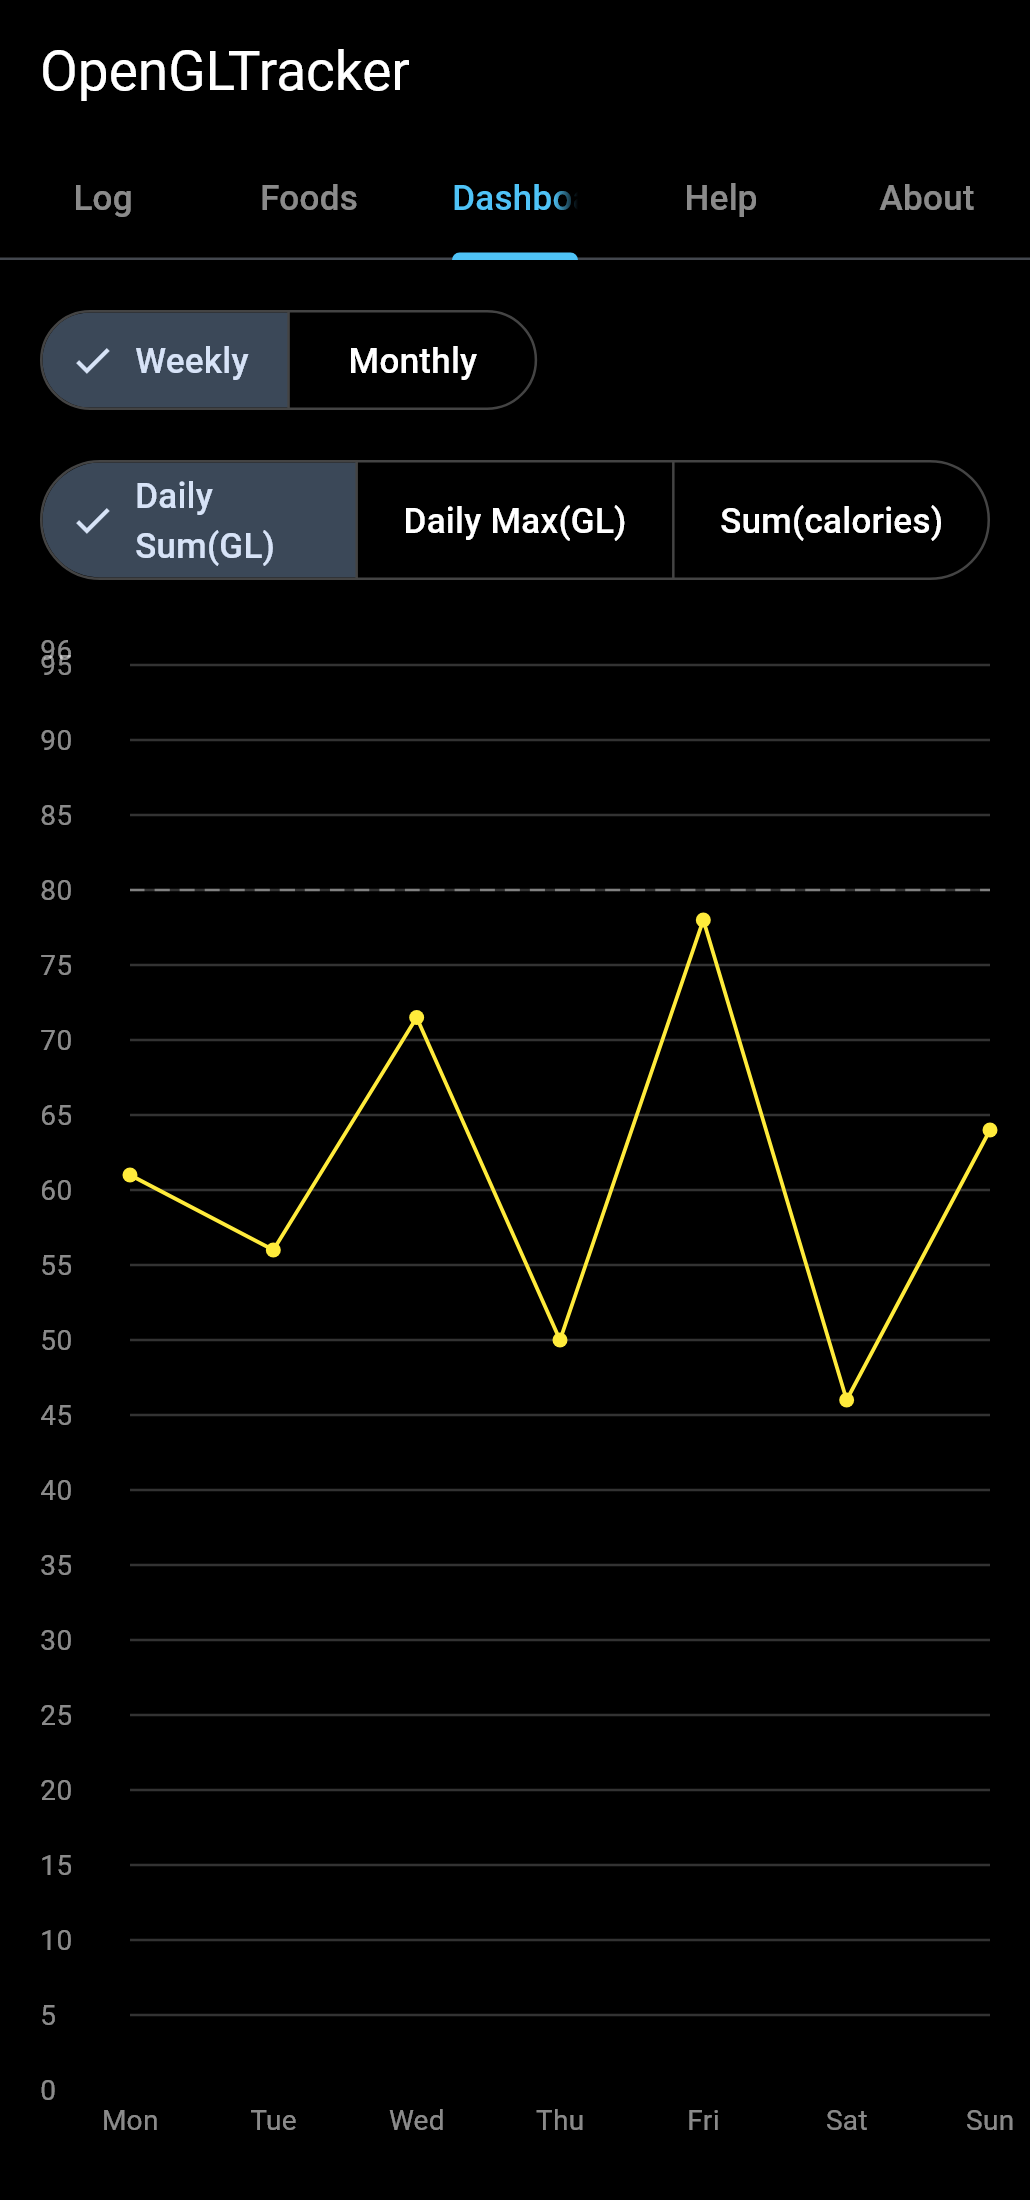
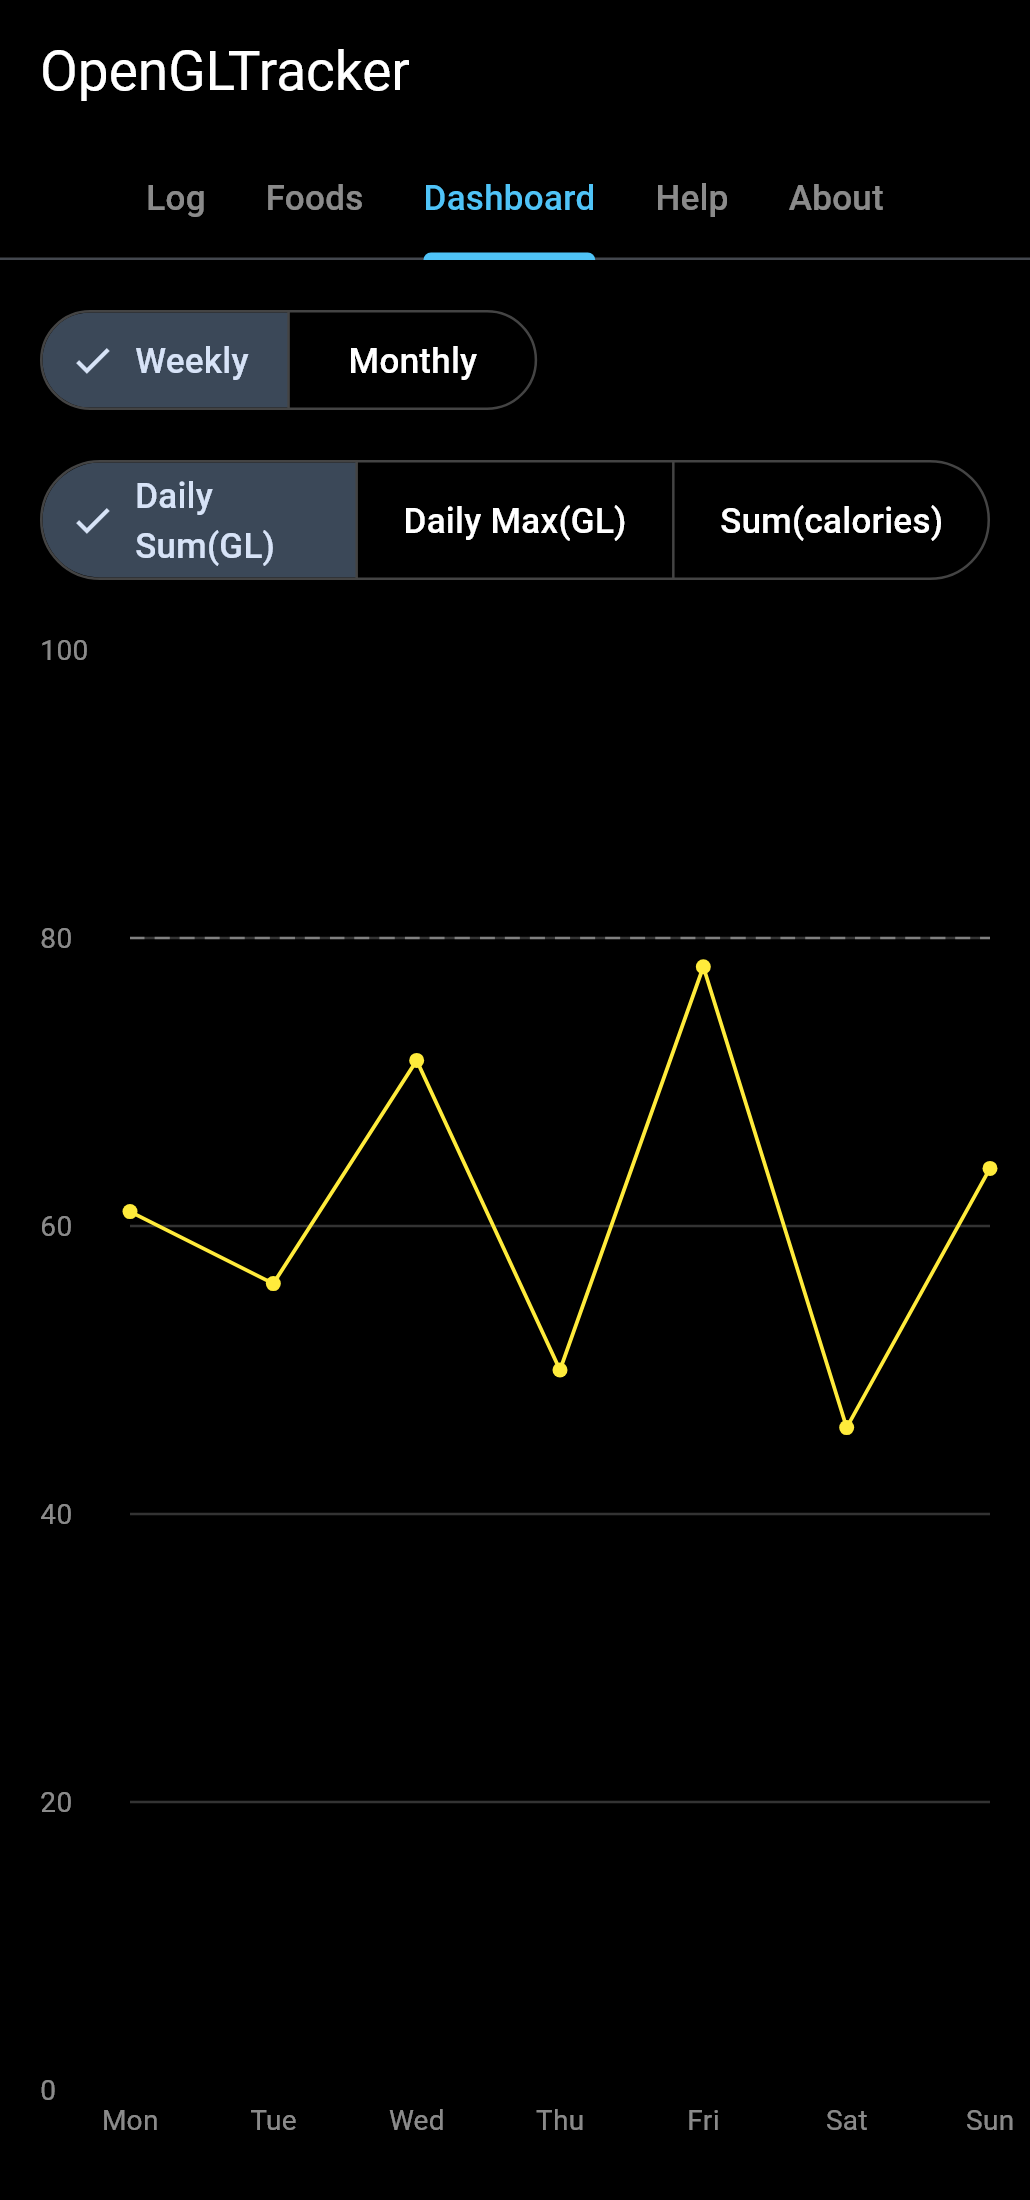
fix: dashboard tab truncation and chart axis label overlap
- Size tabs to their labels on narrow screens so 'Dashboard' fits
- Round the chart's y-axis top up to a nice step and use that step for
  labels and grid, so the last label can't overlap the one below
- Regression tests with real fonts; regenerated README screenshots

diff --git a/app/test/layout_test.dart b/app/test/layout_test.dart
@@ -1,0 +1,82 @@
+import 'dart:convert';
+import 'dart:io';
+
+import 'package:flutter/material.dart';
+import 'package:flutter/rendering.dart';
+import 'package:flutter/services.dart';
+import 'package:flutter_riverpod/flutter_riverpod.dart';
+import 'package:flutter_test/flutter_test.dart';
+import 'package:opengltracker/ui/app.dart';
+import 'package:shared_preferences/shared_preferences.dart';
+
+const _tabs = ['Log', 'Foods', 'Dashboard', 'Help', 'About'];
+
+String _todayKey() {
+  final d = DateTime.now();
+  return 'log_${d.year}-${d.month.toString().padLeft(2, '0')}-'
+      '${d.day.toString().padLeft(2, '0')}';
+}
+
+Future<void> _pumpApp(WidgetTester t, Size size) async {
+  t.view.physicalSize = size;
+  t.view.devicePixelRatio = 1;
+  addTearDown(t.view.reset);
+  await t.pumpWidget(const ProviderScope(child: OpenGlTrackerApp()));
+}
+
+// Real fonts: the default test font draws every glyph as a 14px square, which
+// would make text widths (and therefore truncation) meaningless.
+Future<void> _loadFonts() async {
+  final dir =
+      '${Platform.environment['FLUTTER_ROOT']}/bin/cache/artifacts/material_fonts';
+  Future<ByteData> read(String f) async =>
+      ByteData.sublistView(File('$dir/$f').readAsBytesSync());
+  await (FontLoader('Roboto')
+        ..addFont(read('roboto-regular.ttf'))
+        ..addFont(read('roboto-medium.ttf'))
+        ..addFont(read('roboto-bold.ttf')))
+      .load();
+}
+
+void main() {
+  setUpAll(_loadFonts);
+
+  for (final width in [360.0, 412.0, 1280.0]) {
+    testWidgets('tab labels are not truncated at ${width}px', (t) async {
+      SharedPreferences.setMockInitialValues({});
+      await _pumpApp(t, Size(width, 800));
+      for (final label in _tabs) {
+        final p = t.renderObject<RenderParagraph>(
+            find.descendant(of: find.byType(Tab), matching: find.text(label)));
+        expect(p.size.width, greaterThanOrEqualTo(p.getMaxIntrinsicWidth(double.infinity)),
+            reason: '"$label" is cut off');
+      }
+    });
+  }
+
+  testWidgets('dashboard y-axis ends on a whole step', (t) async {
+    // One day at GL 64: the axis top would be 80 * 1.2 = 96, which used to be
+    // drawn as an extra "96" label on top of "95".
+    SharedPreferences.setMockInitialValues({
+      _todayKey(): jsonEncode([
+        {
+          'id': 'a',
+          'foodName': 'Test',
+          'foodGl': 64.0,
+          'foodCalories': 500,
+          'foodServing': '1',
+          'portions': 1.0,
+          'category': 'lunch',
+        }
+      ]),
+    });
+    await _pumpApp(t, const Size(412, 880));
+    await t.tap(find.widgetWithText(Tab, 'Dashboard'));
+    await t.pumpAndSettle();
+
+    expect(find.text('96'), findsNothing);
+    expect(find.text('95'), findsNothing);
+    expect(find.text('100'), findsOneWidget);
+    expect(find.text('20'), findsOneWidget);
+  });
+}

diff --git a/app/lib/ui/dashboard_screen.dart b/app/lib/ui/dashboard_screen.dart
@@ -82,6 +82,22 @@ class _MetricToggle extends StatelessWidget {
   }
 }
 
+/// The smallest 1, 2 or 5 × 10ⁿ that is at least [raw].
+double _niceStep(double raw) {
+  if (raw <= 0) return 1;
+  var magnitude = 1.0;
+  while (magnitude * 10 <= raw) {
+    magnitude *= 10;
+  }
+  while (magnitude > raw) {
+    magnitude /= 10;
+  }
+  for (final m in [1, 2, 5, 10]) {
+    if (m * magnitude >= raw) return m * magnitude;
+  }
+  return 10 * magnitude;
+}
+
 class _Chart extends StatelessWidget {
   final List<DashboardPoint> points;
   final DashboardPeriod period;
@@ -113,11 +129,15 @@ class _Chart extends StatelessWidget {
       FlSpot((points.length - 1).toDouble(), baseline),
     ];
 
-    final maxY = ([
+    final rawMaxY = ([
       ...points.map((p) => p.value),
       baseline,
     ].fold(0.0, (a, b) => a > b ? a : b) * 1.2)
         .clamp(baseline * 1.2, double.infinity);
+    // Round the top up to a whole step so the last label isn't drawn on top
+    // of the one below it, and grid lines and labels share the same step.
+    final yStep = _niceStep(rawMaxY / 6);
+    final maxY = (rawMaxY / yStep).ceil() * yStep;
 
     return LineChart(
       LineChartData(
@@ -128,6 +148,7 @@ class _Chart extends StatelessWidget {
         gridData: FlGridData(
           show: true,
           drawVerticalLine: false,
+          horizontalInterval: yStep,
           getDrawingHorizontalLine: (_) => FlLine(
             color: const Color(0xFF333333),
             strokeWidth: 1,
@@ -143,6 +164,7 @@ class _Chart extends StatelessWidget {
             sideTitles: SideTitles(
               showTitles: true,
               reservedSize: 36,
+              interval: yStep,
               getTitlesWidget: (value, _) => Text(
                 value.toInt().toString(),
                 style: const TextStyle(color: Colors.white54, fontSize: 11),

diff --git a/app/lib/ui/app.dart b/app/lib/ui/app.dart
@@ -85,11 +85,19 @@ class _ShellState extends ConsumerState<_Shell> with SingleTickerProviderStateMi
 
   @override
   Widget build(BuildContext context) {
+    final narrow = MediaQuery.sizeOf(context).width < 600;
     return Scaffold(
       appBar: AppBar(
         title: const Text('OpenGLTracker'),
         bottom: TabBar(
           controller: _tabController,
+          // Five equal-width tabs truncate "Dashboard" on phones. On narrow
+          // screens size tabs to their labels instead (scrolling only if a
+          // very small screen still can't fit them).
+          isScrollable: narrow,
+          tabAlignment: narrow ? TabAlignment.center : null,
+          labelPadding:
+              narrow ? const EdgeInsets.symmetric(horizontal: 12) : null,
           tabs: const [
             Tab(text: 'Log'),
             Tab(text: 'Foods'),

diff --git a/CHANGELOG.md b/CHANGELOG.md
@@ -6,6 +6,16 @@ adheres to [Semantic Versioning](https://semver.org/spec/v2.0.0.html).
 
 ## [Unreleased]
 
+### Fixed
+
+- **The "Dashboard" tab label is no longer cut off on phones.** Five
+  equal-width tabs left it too little room. On narrow screens the tabs now
+  size to their labels.
+- **The dashboard's top axis labels no longer overlap.** The top of the axis
+  could land between labels (e.g. 96 just above 95), drawing two numbers on
+  top of each other. It now rounds up to a whole step (0, 20, … 100), with
+  fewer, evenly spaced labels.
+
 ## [1.0.0] - 2026-11-01
 
 First public release.
